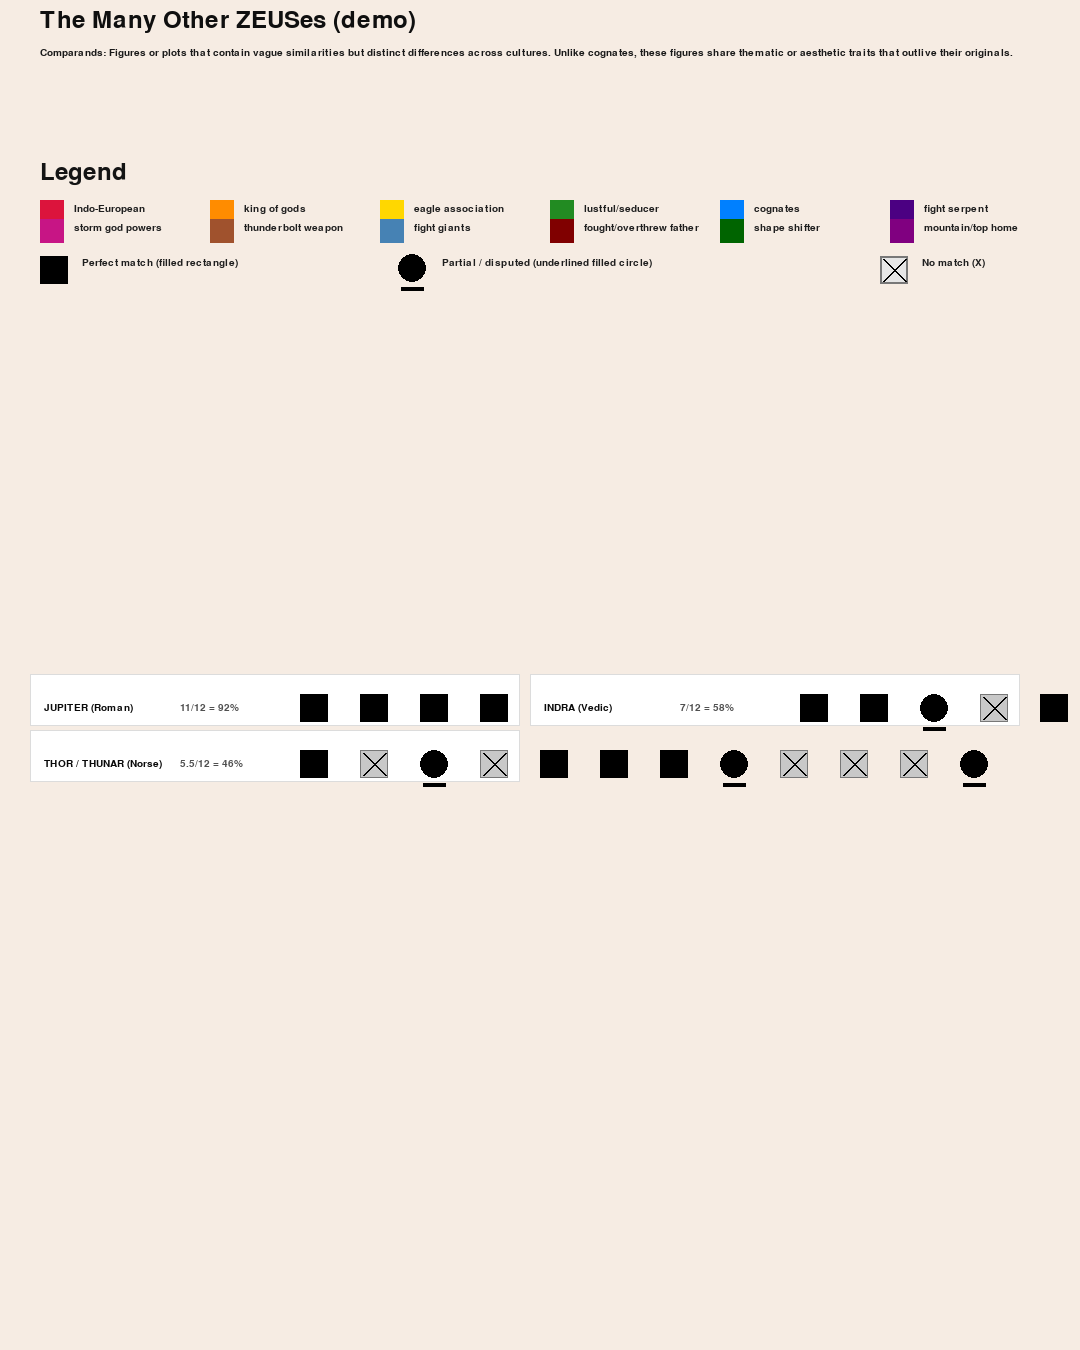
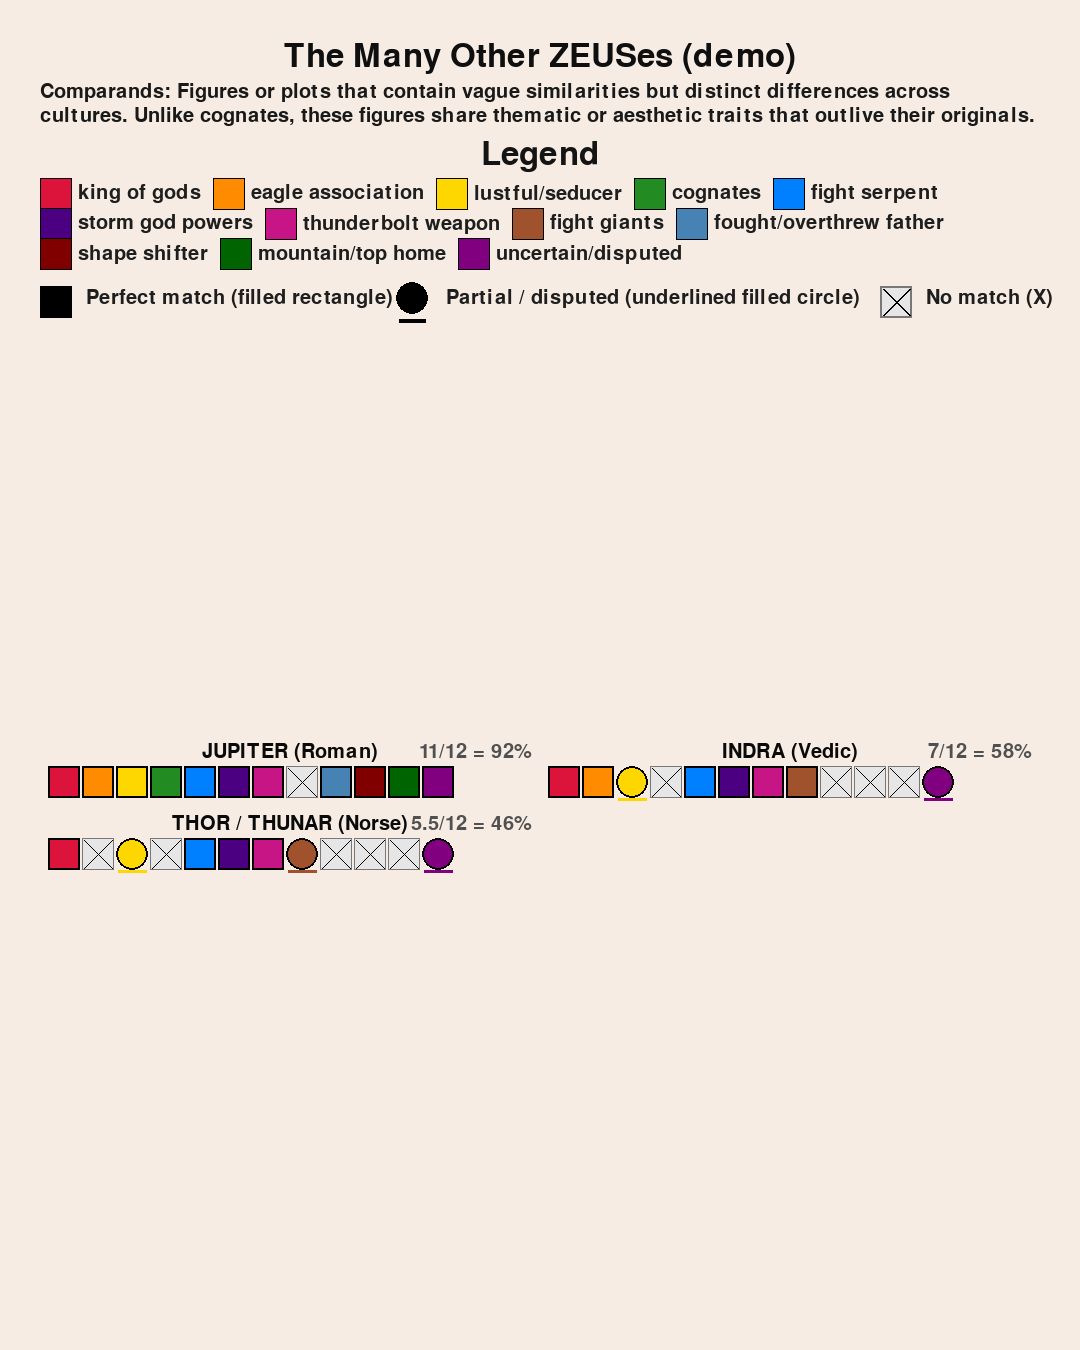
reformat closer to original

Changed region(s): [[0.0306, 0.0, 0.9778, 0.2489], [0.0306, 0.4978, 1.0, 0.6533]]

diff --git a/comparative_visualizer.py b/comparative_visualizer.py
@@ -13,15 +13,16 @@ DEFAULT_LEFT_MARGIN = 60
 DEFAULT_TOP_MARGIN = 40
 DEFAULT_NAME_COL = 140
 DEFAULT_ROW_HEIGHT = 72
-DEFAULT_FEATURE_SIZE = 20
+DEFAULT_FEATURE_SIZE = 32
 DEFAULT_FEATURE_SPACING = 40
 DEFAULT_LEGEND_HEIGHT = 140
-DEFAULT_FONT_SIZE = 24
+DEFAULT_FONT_SIZE = 30
 DEFAULT_TITLE_FONT_SIZE = 48
 DEFAULT_TOP_IMAGE_SPACE = 500
 DEFAULT_SWATCH_SPACING = 140
 DEFAULT_UNDERLINE_OFFSET = 6
 DEFAULT_UNDERLINE_THICKNESS = 4
+DEFAULT_CANVAS_MARGIN = 40
 
 # default marker colors
 DEFAULT_PERFECT_MARKER_COLOR = (0, 0, 0)
@@ -58,6 +59,7 @@ class Visualizer:
         feature_labels: List[str],
         canvas_size: Tuple[int, int] = DEFAULT_CANVAS_SIZE,
         top_image_space: int = DEFAULT_TOP_IMAGE_SPACE,
+        canvas_margin: int = DEFAULT_CANVAS_MARGIN,
         left_margin: int = DEFAULT_LEFT_MARGIN,
         top_margin: int = DEFAULT_TOP_MARGIN,
         name_col: int = DEFAULT_NAME_COL,
@@ -80,6 +82,7 @@ class Visualizer:
 
         # canvas and layout (all adjustable via parameters)
         self.canvas_width, self.canvas_height = canvas_size
+        self.canvas_margin = canvas_margin
         self.left_margin = left_margin
         self.top_margin = top_margin
         self.name_col = name_col
@@ -119,13 +122,14 @@ class Visualizer:
 
     def draw_legend(self, surface: pygame.Surface, x: int, y: int):
         title = self.title_font.render('Legend', True, (20, 20, 20))
-        surface.blit(title, (x, y))
+        title_x = (self.canvas_width - title.get_width()) // 2
+        surface.blit(title, (title_x, y))
         y += 40
         # feature swatches with wrapping
         cur_x = x
         cur_y = y
         start_x = x
-        max_x = self.canvas_width - self.left_margin
+        max_x = self.canvas_width - self.canvas_margin
         item_gap = 12
         sw = self.feature_size
         for i, label in enumerate(self.feature_labels):
@@ -206,11 +210,16 @@ class Visualizer:
             surf = self.font.render(line, True, (25, 25, 25))
             surface.blit(surf, (x, y + i * (self.font.get_linesize() + 2)))
 
+        # return total height used
+        return len(lines) * (self.font.get_linesize() + 2)
+
     def draw_comparand_row(self, surface: pygame.Surface, comparand: Comparand, index: int, x: int, y: int, col_width: int = None):
         # name
-        # draw title above the marker row
+        # draw title centered above the marker row
         name_surf = self.font.render(comparand.name, True, (10, 10, 10))
-        name_x = x + 4
+        if col_width is None:
+            col_width = (self.canvas_width - 2 * self.canvas_margin) // 2
+        name_x = int(x + (col_width - name_surf.get_width()) / 2)
         name_y = y - (self.row_height // 2)
         surface.blit(name_surf, (name_x, name_y))
 
@@ -228,9 +237,10 @@ class Visualizer:
             col_width = (self.canvas_width - 2 * self.left_margin) // 2
 
         # feature markers -- dynamic spacing to fit all features in available width
-        start_x = x + self.name_col
+        # left-justify markers inside the column with a small padding
+        start_x = x + 8
         cy = y + self.row_height // 2
-        available = max(100, col_width - (self.name_col + 20))
+        available = max(100, col_width - 16)
 
         # determine effective feature size and spacing to keep markers close
         eff_feature_size = min(self.feature_size, max(8, available // max(1, self.n_features) - 2))
@@ -242,22 +252,22 @@ class Visualizer:
             feature_color = self.feature_colors[i % len(self.feature_colors)]
 
             if state == FeatureStatus.PERFECT:
-                rect = pygame.Rect(fx, cy - eff_feature_size // 2, eff_feature_size, eff_feature_size)
+                rect = pygame.Rect(fx, cy - eff_feature_size*1.5, eff_feature_size, eff_feature_size)
                 pygame.draw.rect(surface, feature_color, rect)
                 pygame.draw.rect(surface, (0, 0, 0), rect, 2)
             elif state == FeatureStatus.PARTIAL:
-                center = (fx + eff_feature_size // 2, cy)
+                center = (fx + eff_feature_size // 2, cy  - eff_feature_size)
                 pygame.draw.circle(surface, feature_color, center, eff_feature_size // 2)
                 pygame.draw.circle(surface, (0, 0, 0), center, eff_feature_size // 2, 2)
-                ul_start = (center[0] - eff_feature_size // 2 + 2, center[1] + eff_feature_size // 2 + self.underline_offset)
-                ul_end = (center[0] + eff_feature_size // 2 - 2, center[1] + eff_feature_size // 2 + self.underline_offset)
+                ul_start = (center[0] - eff_feature_size // 2 + 2, center[1] + eff_feature_size // 2 + self.underline_offset//4)
+                ul_end = (center[0] + eff_feature_size // 2 - 2, center[1] + eff_feature_size // 2 + self.underline_offset//4)
                 pygame.draw.line(surface, feature_color, ul_start, ul_end, max(1, self.underline_thickness - 1))
             else:
-                rect = pygame.Rect(fx, cy - eff_feature_size // 2, eff_feature_size, eff_feature_size)
+                rect = pygame.Rect(fx, cy - eff_feature_size*1.5, eff_feature_size, eff_feature_size)
                 pygame.draw.rect(surface, (230, 230, 230), rect)
                 pygame.draw.rect(surface, (120, 120, 120), rect, 1)
-                pygame.draw.line(surface, self.none_marker_color, (fx + 2, cy - eff_feature_size // 2 + 2), (fx + eff_feature_size - 2, cy + eff_feature_size // 2 - 2), 1)
-                pygame.draw.line(surface, self.none_marker_color, (fx + eff_feature_size - 2, cy - eff_feature_size // 2 + 2), (fx + 2, cy + eff_feature_size // 2 - 2), 1)
+                pygame.draw.line(surface, self.none_marker_color, (fx + 2, cy - eff_feature_size*1.5 + 2), (fx + eff_feature_size - 2, cy - eff_feature_size//2 - 2), 1)
+                pygame.draw.line(surface, self.none_marker_color, (fx + eff_feature_size - 2, cy - eff_feature_size*1.5 + 2), (fx + 2, cy - eff_feature_size//2 - 2), 1)
 
         # draw score at right edge of column
         score_x = x + col_width - score_surf.get_width() - 8
@@ -275,25 +285,34 @@ class Visualizer:
 
         # title
         title_surf = self.title_font.render(title, True, (15, 15, 15))
-        surface.blit(title_surf, (self.left_margin, 8))
 
         # definition
         def_text = (
             'Comparands: Figures or plots that contain vague similarities but distinct differences across cultures. '
             'Unlike cognates, these figures share thematic or aesthetic traits that outlive their originals.'
         )
-        self.draw_definition(surface, self.left_margin, 48, self.canvas_width - self.left_margin * 2, def_text)
+        # title (centered)
+        title_y = self.canvas_margin
+        title_x = (self.canvas_width - title_surf.get_width()) // 2
+        surface.blit(title_surf, (title_x, title_y))
 
-        # legend
-        self.draw_legend(surface, self.left_margin, self.top_margin + 120)
+        # definition (below title)
+        def_x = self.canvas_margin
+        def_y = title_y + title_surf.get_height() + 8
+        def_h = self.draw_definition(surface, def_x, def_y, self.canvas_width - 2 * self.canvas_margin, def_text)
+
+        # legend (below definition)
+        legend_x = self.canvas_margin
+        legend_y = def_y + def_h + 8
+        self.draw_legend(surface, legend_x, legend_y)
 
         # compute top y for comparand rows
-        start_y = self.top_margin + self.legend_height + self.top_image_space
+        start_y = legend_y + self.legend_height + self.top_image_space
 
         # layout columns
-        col_width = (self.canvas_width - 2 * self.left_margin) // 2
-        left_x = self.left_margin
-        right_x = self.left_margin + col_width
+        col_width = (self.canvas_width - 2 * self.canvas_margin) // 2
+        left_x = self.canvas_margin
+        right_x = self.canvas_margin + col_width
 
         left_list = left_list or []
         right_list = right_list or []
@@ -303,17 +322,12 @@ class Visualizer:
             # left row
             if idx < len(left_list):
                 row_y = start_y + idx * self.row_height
-                row_rect = pygame.Rect(left_x - 10, row_y - 6, col_width - 10, self.row_height - 4)
-                pygame.draw.rect(surface, (255, 255, 255), row_rect)
-                pygame.draw.rect(surface, (220, 220, 220), row_rect, 1)
+                # draw comparand row without white box; title centered above, symbols left-justified inside column
                 self.draw_comparand_row(surface, left_list[idx], idx, left_x, row_y, col_width=col_width)
 
             # right row
             if idx < len(right_list):
                 row_y = start_y + idx * self.row_height
-                row_rect = pygame.Rect(right_x - 10, row_y - 6, col_width - 10, self.row_height - 4)
-                pygame.draw.rect(surface, (255, 255, 255), row_rect)
-                pygame.draw.rect(surface, (220, 220, 220), row_rect, 1)
                 self.draw_comparand_row(surface, right_list[idx], idx, right_x, row_y, col_width=col_width)
 
         return surface